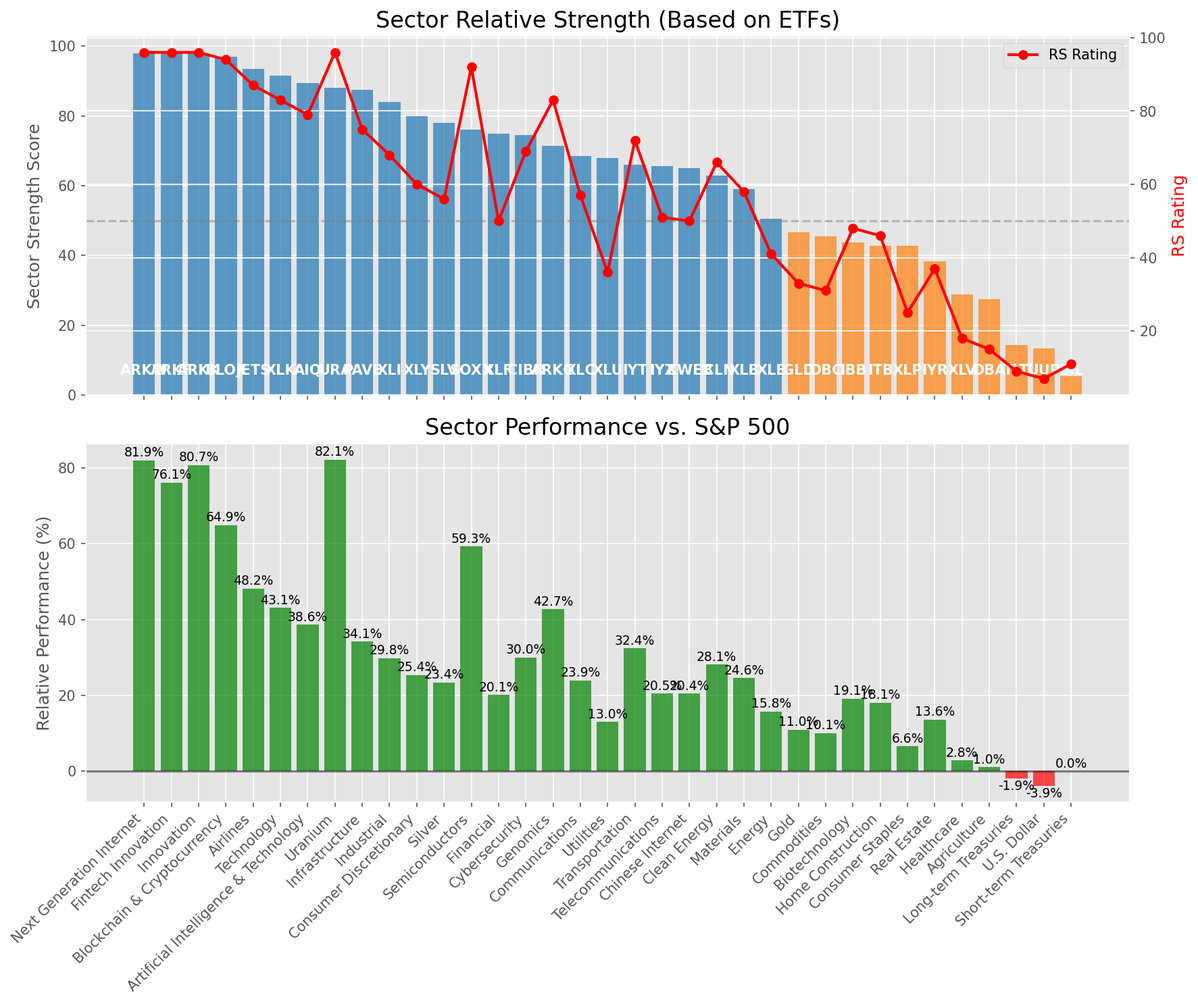
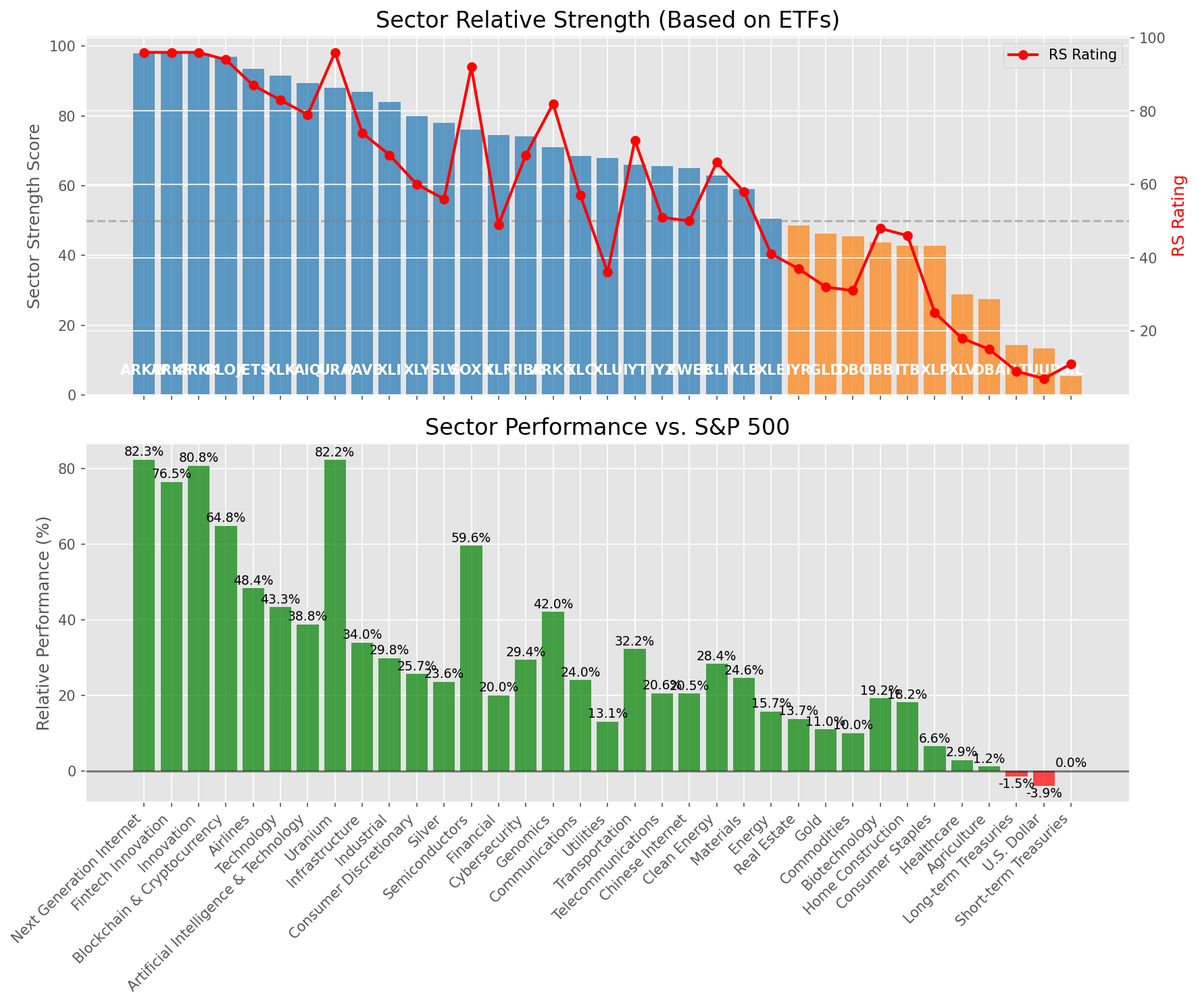
Add market report for 2025-07-10

diff --git a/oneil_relative_strength_report_2025-07-10.md b/oneil_relative_strength_report_2025-07-10.md
@@ -9,11 +9,11 @@
 | Metric | Value |
 |--------|-------|
 | **Market Valuation** | **Overvalued** |
-| **Current Ratio** | 10.30 |
+| **Current Ratio** | 10.31 |
 | **Historical Mean** | 9.44 |
 | **Standard Deviation** | 0.51 |
 | **Z-Score (StdDev from Mean)** | 1.62 |
-| **Total Market Cap** | $308.55 trillion |
+| **Total Market Cap** | $308.86 trillion |
 | **GDP** | $29.96 trillion |
 
 ## **Market Insights**
@@ -49,41 +49,41 @@ Based on William O'Neil's Relative Strength Methodology
 
 | ETF | Strength | RS Rating | Performance | Above Key MAs | Trend | Sector |
 |-----|----------|-----------|-------------|--------------|-------|--------|
-| [ARKW](https://www.tradingview.com/chart/?symbol=ARKW) | 98.0 | 96.0 | 81.95% | 10d ✓, 50d ✓, 200d ✓ | ↗ | Next Generation Internet |
-| [ARKF](https://www.tradingview.com/chart/?symbol=ARKF) | 98.0 | 96.0 | 76.14% | 10d ✓, 50d ✓, 200d ✓ | ↗ | Fintech Innovation |
-| [ARKK](https://www.tradingview.com/chart/?symbol=ARKK) | 98.0 | 96.0 | 80.70% | 10d ✓, 50d ✓, 200d ✓ | ↗ | Innovation |
-| [BLOK](https://www.tradingview.com/chart/?symbol=BLOK) | 97.0 | 94.0 | 64.87% | 10d ✓, 50d ✓, 200d ✓ | ↗ | Blockchain & Cryptocurrency |
-| [JETS](https://www.tradingview.com/chart/?symbol=JETS) | 93.5 | 87.0 | 48.19% | 10d ✓, 50d ✓, 200d ✓ | ↗ | Airlines |
-| [XLK](https://www.tradingview.com/chart/?symbol=XLK) | 91.5 | 83.0 | 43.05% | 10d ✓, 50d ✓, 200d ✓ | ↗ | Technology |
-| [AIQ](https://www.tradingview.com/chart/?symbol=AIQ) | 89.5 | 79.0 | 38.60% | 10d ✓, 50d ✓, 200d ✓ | ↗ | Artificial Intelligence & Technology |
-| [URA](https://www.tradingview.com/chart/?symbol=URA) | 88.1 | 96.0 | 82.13% | 10d ✗, 50d ✓, 200d ✓ | ↗ | Uranium |
-| [PAVE](https://www.tradingview.com/chart/?symbol=PAVE) | 87.5 | 75.0 | 34.13% | 10d ✓, 50d ✓, 200d ✓ | ↗ | Infrastructure |
-| [XLI](https://www.tradingview.com/chart/?symbol=XLI) | 84.0 | 68.0 | 29.82% | 10d ✓, 50d ✓, 200d ✓ | ↗ | Industrial |
-| [XLY](https://www.tradingview.com/chart/?symbol=XLY) | 80.0 | 60.0 | 25.38% | 10d ✓, 50d ✓, 200d ✓ | ↗ | Consumer Discretionary |
-| [SLV](https://www.tradingview.com/chart/?symbol=SLV) | 78.0 | 56.0 | 23.36% | 10d ✓, 50d ✓, 200d ✓ | ↗ | Silver |
-| [SOXX](https://www.tradingview.com/chart/?symbol=SOXX) | 76.0 | 92.0 | 59.28% | 10d ✓, 50d ✓, 200d ✓ | ↘ | Semiconductors |
-| [XLF](https://www.tradingview.com/chart/?symbol=XLF) | 75.0 | 50.0 | 20.07% | 10d ✓, 50d ✓, 200d ✓ | ↗ | Financial |
-| [CIBR](https://www.tradingview.com/chart/?symbol=CIBR) | 74.6 | 69.0 | 30.02% | 10d ✗, 50d ✓, 200d ✓ | ↗ | Cybersecurity |
-| [ARKG](https://www.tradingview.com/chart/?symbol=ARKG) | 71.5 | 83.0 | 42.72% | 10d ✓, 50d ✓, 200d ✓ | ↘ | Genomics |
-| [XLC](https://www.tradingview.com/chart/?symbol=XLC) | 68.6 | 57.0 | 23.92% | 10d ✗, 50d ✓, 200d ✓ | ↗ | Communications |
-| [XLU](https://www.tradingview.com/chart/?symbol=XLU) | 68.0 | 36.0 | 13.03% | 10d ✓, 50d ✓, 200d ✓ | ↗ | Utilities |
-| [IYT](https://www.tradingview.com/chart/?symbol=IYT) | 66.0 | 72.0 | 32.42% | 10d ✓, 50d ✓, 200d ✓ | ↘ | Transportation |
-| [IYZ](https://www.tradingview.com/chart/?symbol=IYZ) | 65.6 | 51.0 | 20.51% | 10d ✗, 50d ✓, 200d ✓ | ↗ | Telecommunications |
-| [KWEB](https://www.tradingview.com/chart/?symbol=KWEB) | 65.1 | 50.0 | 20.44% | 10d ✗, 50d ✓, 200d ✓ | ↗ | Chinese Internet |
-| [ICLN](https://www.tradingview.com/chart/?symbol=ICLN) | 63.0 | 66.0 | 28.13% | 10d ✓, 50d ✓, 200d ✓ | ↘ | Clean Energy |
-| [XLB](https://www.tradingview.com/chart/?symbol=XLB) | 59.0 | 58.0 | 24.59% | 10d ✓, 50d ✓, 200d ✓ | ↘ | Materials |
-| [XLE](https://www.tradingview.com/chart/?symbol=XLE) | 50.5 | 41.0 | 15.78% | 10d ✓, 50d ✓, 200d ✓ | ↘ | Energy |
-| [GLD](https://www.tradingview.com/chart/?symbol=GLD) | 46.7 | 33.0 | 10.98% | 10d ✗, 50d ✗, 200d ✓ | ↗ | Gold |
-| [DBC](https://www.tradingview.com/chart/?symbol=DBC) | 45.5 | 31.0 | 10.07% | 10d ✓, 50d ✓, 200d ✓ | ↘ | Commodities |
-| [IBB](https://www.tradingview.com/chart/?symbol=IBB) | 43.8 | 48.0 | 19.14% | 10d ✓, 50d ✓, 200d ✗ | ↘ | Biotechnology |
-| [ITB](https://www.tradingview.com/chart/?symbol=ITB) | 42.8 | 46.0 | 18.09% | 10d ✓, 50d ✓, 200d ✗ | ↘ | Home Construction |
+| [ARKW](https://www.tradingview.com/chart/?symbol=ARKW) | 98.0 | 96.0 | 82.32% | 10d ✓, 50d ✓, 200d ✓ | ↗ | Next Generation Internet |
+| [ARKF](https://www.tradingview.com/chart/?symbol=ARKF) | 98.0 | 96.0 | 76.46% | 10d ✓, 50d ✓, 200d ✓ | ↗ | Fintech Innovation |
+| [ARKK](https://www.tradingview.com/chart/?symbol=ARKK) | 98.0 | 96.0 | 80.76% | 10d ✓, 50d ✓, 200d ✓ | ↗ | Innovation |
+| [BLOK](https://www.tradingview.com/chart/?symbol=BLOK) | 97.0 | 94.0 | 64.85% | 10d ✓, 50d ✓, 200d ✓ | ↗ | Blockchain & Cryptocurrency |
+| [JETS](https://www.tradingview.com/chart/?symbol=JETS) | 93.5 | 87.0 | 48.36% | 10d ✓, 50d ✓, 200d ✓ | ↗ | Airlines |
+| [XLK](https://www.tradingview.com/chart/?symbol=XLK) | 91.5 | 83.0 | 43.31% | 10d ✓, 50d ✓, 200d ✓ | ↗ | Technology |
+| [AIQ](https://www.tradingview.com/chart/?symbol=AIQ) | 89.5 | 79.0 | 38.81% | 10d ✓, 50d ✓, 200d ✓ | ↗ | Artificial Intelligence & Technology |
+| [URA](https://www.tradingview.com/chart/?symbol=URA) | 88.1 | 96.0 | 82.23% | 10d ✗, 50d ✓, 200d ✓ | ↗ | Uranium |
+| [PAVE](https://www.tradingview.com/chart/?symbol=PAVE) | 87.0 | 74.0 | 33.97% | 10d ✓, 50d ✓, 200d ✓ | ↗ | Infrastructure |
+| [XLI](https://www.tradingview.com/chart/?symbol=XLI) | 84.0 | 68.0 | 29.83% | 10d ✓, 50d ✓, 200d ✓ | ↗ | Industrial |
+| [XLY](https://www.tradingview.com/chart/?symbol=XLY) | 80.0 | 60.0 | 25.69% | 10d ✓, 50d ✓, 200d ✓ | ↗ | Consumer Discretionary |
+| [SLV](https://www.tradingview.com/chart/?symbol=SLV) | 78.0 | 56.0 | 23.62% | 10d ✓, 50d ✓, 200d ✓ | ↗ | Silver |
+| [SOXX](https://www.tradingview.com/chart/?symbol=SOXX) | 76.0 | 92.0 | 59.58% | 10d ✓, 50d ✓, 200d ✓ | ↘ | Semiconductors |
+| [XLF](https://www.tradingview.com/chart/?symbol=XLF) | 74.5 | 49.0 | 20.03% | 10d ✓, 50d ✓, 200d ✓ | ↗ | Financial |
+| [CIBR](https://www.tradingview.com/chart/?symbol=CIBR) | 74.1 | 68.0 | 29.43% | 10d ✗, 50d ✓, 200d ✓ | ↗ | Cybersecurity |
+| [ARKG](https://www.tradingview.com/chart/?symbol=ARKG) | 71.0 | 82.0 | 42.04% | 10d ✓, 50d ✓, 200d ✓ | ↘ | Genomics |
+| [XLC](https://www.tradingview.com/chart/?symbol=XLC) | 68.6 | 57.0 | 24.05% | 10d ✗, 50d ✓, 200d ✓ | ↗ | Communications |
+| [XLU](https://www.tradingview.com/chart/?symbol=XLU) | 68.0 | 36.0 | 13.10% | 10d ✓, 50d ✓, 200d ✓ | ↗ | Utilities |
+| [IYT](https://www.tradingview.com/chart/?symbol=IYT) | 66.0 | 72.0 | 32.22% | 10d ✓, 50d ✓, 200d ✓ | ↘ | Transportation |
+| [IYZ](https://www.tradingview.com/chart/?symbol=IYZ) | 65.6 | 51.0 | 20.59% | 10d ✗, 50d ✓, 200d ✓ | ↗ | Telecommunications |
+| [KWEB](https://www.tradingview.com/chart/?symbol=KWEB) | 65.1 | 50.0 | 20.46% | 10d ✗, 50d ✓, 200d ✓ | ↗ | Chinese Internet |
+| [ICLN](https://www.tradingview.com/chart/?symbol=ICLN) | 63.0 | 66.0 | 28.36% | 10d ✓, 50d ✓, 200d ✓ | ↘ | Clean Energy |
+| [XLB](https://www.tradingview.com/chart/?symbol=XLB) | 59.0 | 58.0 | 24.60% | 10d ✓, 50d ✓, 200d ✓ | ↘ | Materials |
+| [XLE](https://www.tradingview.com/chart/?symbol=XLE) | 50.5 | 41.0 | 15.74% | 10d ✓, 50d ✓, 200d ✓ | ↘ | Energy |
+| [IYR](https://www.tradingview.com/chart/?symbol=IYR) | 48.5 | 37.0 | 13.74% | 10d ✓, 50d ✓, 200d ✓ | ↘ | Real Estate |
+| [GLD](https://www.tradingview.com/chart/?symbol=GLD) | 46.2 | 32.0 | 11.00% | 10d ✗, 50d ✗, 200d ✓ | ↗ | Gold |
+| [DBC](https://www.tradingview.com/chart/?symbol=DBC) | 45.5 | 31.0 | 10.00% | 10d ✓, 50d ✓, 200d ✓ | ↘ | Commodities |
+| [IBB](https://www.tradingview.com/chart/?symbol=IBB) | 43.8 | 48.0 | 19.21% | 10d ✓, 50d ✓, 200d ✗ | ↘ | Biotechnology |
+| [ITB](https://www.tradingview.com/chart/?symbol=ITB) | 42.8 | 46.0 | 18.17% | 10d ✓, 50d ✓, 200d ✗ | ↘ | Home Construction |
 | [XLP](https://www.tradingview.com/chart/?symbol=XLP) | 42.7 | 25.0 | 6.57% | 10d ✗, 50d ✗, 200d ✓ | ↗ | Consumer Staples |
-| [IYR](https://www.tradingview.com/chart/?symbol=IYR) | 38.3 | 37.0 | 13.59% | 10d ✓, 50d ✓, 200d ✗ | ↘ | Real Estate |
-| [XLV](https://www.tradingview.com/chart/?symbol=XLV) | 28.8 | 18.0 | 2.82% | 10d ✓, 50d ✓, 200d ✗ | ↘ | Healthcare |
-| [DBA](https://www.tradingview.com/chart/?symbol=DBA) | 27.5 | 15.0 | 1.04% | 10d ✗, 50d ✗, 200d ✗ | ↗ | Agriculture |
-| [TLT](https://www.tradingview.com/chart/?symbol=TLT) | 14.4 | 9.0 | -1.90% | 10d ✗, 50d ✓, 200d ✗ | ↘ | Long-term Treasuries |
-| [UUP](https://www.tradingview.com/chart/?symbol=UUP) | 13.4 | 7.0 | -3.88% | 10d ✓, 50d ✗, 200d ✗ | ↘ | U.S. Dollar |
-| [BIL](https://www.tradingview.com/chart/?symbol=BIL) | 5.5 | 11.0 | 0.03% | 10d ✗, 50d ✗, 200d ✗ | ↘ | Short-term Treasuries |
+| [XLV](https://www.tradingview.com/chart/?symbol=XLV) | 28.8 | 18.0 | 2.87% | 10d ✓, 50d ✓, 200d ✗ | ↘ | Healthcare |
+| [DBA](https://www.tradingview.com/chart/?symbol=DBA) | 27.5 | 15.0 | 1.18% | 10d ✗, 50d ✗, 200d ✗ | ↗ | Agriculture |
+| [TLT](https://www.tradingview.com/chart/?symbol=TLT) | 14.4 | 9.0 | -1.53% | 10d ✗, 50d ✓, 200d ✗ | ↘ | Long-term Treasuries |
+| [UUP](https://www.tradingview.com/chart/?symbol=UUP) | 13.4 | 7.0 | -3.95% | 10d ✓, 50d ✗, 200d ✗ | ↘ | U.S. Dollar |
+| [BIL](https://www.tradingview.com/chart/?symbol=BIL) | 5.5 | 11.0 | 0.02% | 10d ✗, 50d ✗, 200d ✗ | ↘ | Short-term Treasuries |
 
 ### **Sector ETF Performance Interpretation**
 
@@ -100,153 +100,150 @@ This table shows the relative strength metrics for different market sectors base
 
 The current market leadership is coming from the following sectors: **Next Generation Internet, Fintech Innovation, Innovation**.
 
-The **Next Generation Internet** sector (represented by **ARKW**) is showing particularly strong relative strength with an RS rating of 96.0 and performance of 81.95% vs. the S&P 500. This sector is trading above its 10-day, 50-day, 200-day moving average(s). Investors should consider focusing on high RS stocks within these leading sectors for potential outperformance.
+The **Next Generation Internet** sector (represented by **ARKW**) is showing particularly strong relative strength with an RS rating of 96.0 and performance of 82.32% vs. the S&P 500. This sector is trading above its 10-day, 50-day, 200-day moving average(s). Investors should consider focusing on high RS stocks within these leading sectors for potential outperformance.
 
 ---
 
 ## **Buy Recommendations**
 
-The following 36 stocks show exceptional relative strength:
+The following 34 stocks show exceptional relative strength:
 
 | RS Rating | Buy Score | Current Price | Chart | Name | Ticker |
 |-----------|-----------|---------------|-------|------|--------|
-| 100 | 100 | $193.78 | [Chart](https://www.tradingview.com/chart/?symbol=LEU) | Centrus Energy Corp. | LEU |
-| 100 | 100 | $97.14 | [Chart](https://www.tradingview.com/chart/?symbol=HOOD) | Robinhood Markets, Inc. Class A Common Stock | HOOD |
-| 99 | 100 | $44.15 | [Chart](https://www.tradingview.com/chart/?symbol=MP) | MP Materials Corp. | MP |
-| 99 | 100 | $104.70 | [Chart](https://www.tradingview.com/chart/?symbol=RBLX) | Roblox Corporation | RBLX |
+| 100 | 100 | $194.79 | [Chart](https://www.tradingview.com/chart/?symbol=LEU) | Centrus Energy Corp. | LEU |
+| 100 | 100 | $97.97 | [Chart](https://www.tradingview.com/chart/?symbol=HOOD) | Robinhood Markets, Inc. Class A Common Stock | HOOD |
 | 99 | 100 | $145.69 | [Chart](https://www.tradingview.com/chart/?symbol=LMB) | Limbach Holdings, Inc Common Stock | LMB |
-| 98 | 100 | $104.91 | [Chart](https://www.tradingview.com/chart/?symbol=VRNA) | Verona Pharma plc | VRNA |
-| 98 | 100 | $143.40 | [Chart](https://www.tradingview.com/chart/?symbol=FUTU) | Futu Holdings Limited American Depositary Shares | FUTU |
-| 98 | 100 | $349.00 | [Chart](https://www.tradingview.com/chart/?symbol=CVNA) | Carvana Co. | CVNA |
-| 97 | 100 | $141.99 | [Chart](https://www.tradingview.com/chart/?symbol=PLTR) | Palantir Technologies Inc. Class A Common Stock | PLTR |
-| 97 | 100 | $541.60 | [Chart](https://www.tradingview.com/chart/?symbol=GEV) | GE Vernova Inc. | GEV |
-| 96 | 100 | $51.41 | [Chart](https://www.tradingview.com/chart/?symbol=ARKF) | ARK Fintech Innovation ETF | ARKF |
-| 96 | 100 | $43.92 | [Chart](https://www.tradingview.com/chart/?symbol=FARO) | Faro Technologies Inc | FARO |
+| 99 | 100 | $44.38 | [Chart](https://www.tradingview.com/chart/?symbol=MP) | MP Materials Corp. | MP |
+| 98 | 100 | $347.89 | [Chart](https://www.tradingview.com/chart/?symbol=CVNA) | Carvana Co. | CVNA |
+| 98 | 100 | $104.84 | [Chart](https://www.tradingview.com/chart/?symbol=VRNA) | Verona Pharma plc | VRNA |
+| 98 | 100 | $143.66 | [Chart](https://www.tradingview.com/chart/?symbol=FUTU) | Futu Holdings Limited American Depositary Shares | FUTU |
+| 97 | 100 | $539.89 | [Chart](https://www.tradingview.com/chart/?symbol=GEV) | GE Vernova Inc. | GEV |
+| 97 | 100 | $142.23 | [Chart](https://www.tradingview.com/chart/?symbol=PLTR) | Palantir Technologies Inc. Class A Common Stock | PLTR |
+| 96 | 100 | $51.51 | [Chart](https://www.tradingview.com/chart/?symbol=ARKF) | ARK Fintech Innovation ETF | ARKF |
+| 96 | 100 | $43.95 | [Chart](https://www.tradingview.com/chart/?symbol=FARO) | Faro Technologies Inc | FARO |
 | 95 | 100 | $21.38 | [Chart](https://www.tradingview.com/chart/?symbol=MAG) | MAG Silver Corp. | MAG |
-| 94 | 100 | $73.19 | [Chart](https://www.tradingview.com/chart/?symbol=URBN) | Urban Outfitters Inc | URBN |
-| 94 | 100 | $88.69 | [Chart](https://www.tradingview.com/chart/?symbol=RBRK) | Rubrik, Inc. | RBRK |
-| 93 | 100 | $34.72 | [Chart](https://www.tradingview.com/chart/?symbol=APG) | APi Group Corporation | APG |
-| 93 | 100 | $52.55 | [Chart](https://www.tradingview.com/chart/?symbol=INOD) | Innodata Inc. | INOD |
-| 92 | 100 | $97.84 | [Chart](https://www.tradingview.com/chart/?symbol=TPR) | Tapestry, Inc. Common Stock | TPR |
-| 92 | 100 | $58.92 | [Chart](https://www.tradingview.com/chart/?symbol=IBKR) | Interactive Brokers Group, Inc. Class A Common Stock | IBKR |
-| 92 | 100 | $46.20 | [Chart](https://www.tradingview.com/chart/?symbol=KTOS) | Kratos Defense & Security Solutions, Inc. | KTOS |
-| 90 | 100 | $46.11 | [Chart](https://www.tradingview.com/chart/?symbol=BBIO) | BridgeBio Pharma, Inc. Common Stock | BBIO |
-| 89 | 100 | $29.95 | [Chart](https://www.tradingview.com/chart/?symbol=DB) | Deutsche Bank Aktiengesellschaft | DB |
-| 87 | 100 | $18.77 | [Chart](https://www.tradingview.com/chart/?symbol=BCS) | Barclays PLC | BCS |
-| 90 | 99 | $89.48 | [Chart](https://www.tradingview.com/chart/?symbol=RYTM) | Rhythm Pharmaceuticals, Inc. Common Stock | RYTM |
-| 88 | 99 | $35.96 | [Chart](https://www.tradingview.com/chart/?symbol=ATAT) | Atour Lifestyle Holdings Limited American Depositary Shares | ATAT |
-| 88 | 98 | $105.53 | [Chart](https://www.tradingview.com/chart/?symbol=SANM) | Sanmina  Corp | SANM |
-| 87 | 98 | $250.24 | [Chart](https://www.tradingview.com/chart/?symbol=GE) | GE Aerospace | GE |
-| 87 | 98 | $44.41 | [Chart](https://www.tradingview.com/chart/?symbol=TOST) | Toast, Inc. | TOST |
-| 86 | 98 | $46.25 | [Chart](https://www.tradingview.com/chart/?symbol=DRS) | Leonardo DRS, Inc. Common Stock | DRS |
-| 87 | 97 | $64.45 | [Chart](https://www.tradingview.com/chart/?symbol=IBIT) | iShares Bitcoin Trust ETF | IBIT |
-| 85 | 96 | $25.54 | [Chart](https://www.tradingview.com/chart/?symbol=KAR) | OPENLANE, Inc | KAR |
-| 85 | 95 | $29.98 | [Chart](https://www.tradingview.com/chart/?symbol=NTGR) | NETGEAR, Inc. | NTGR |
-| 81 | 95 | $29.14 | [Chart](https://www.tradingview.com/chart/?symbol=SRAD) | Sportradar Group AG Class A Ordinary Shares | SRAD |
+| 94 | 100 | $73.20 | [Chart](https://www.tradingview.com/chart/?symbol=URBN) | Urban Outfitters Inc | URBN |
+| 93 | 100 | $34.73 | [Chart](https://www.tradingview.com/chart/?symbol=APG) | APi Group Corporation | APG |
+| 93 | 100 | $52.62 | [Chart](https://www.tradingview.com/chart/?symbol=INOD) | Innodata Inc. | INOD |
+| 92 | 100 | $58.83 | [Chart](https://www.tradingview.com/chart/?symbol=IBKR) | Interactive Brokers Group, Inc. Class A Common Stock | IBKR |
+| 92 | 100 | $97.67 | [Chart](https://www.tradingview.com/chart/?symbol=TPR) | Tapestry, Inc. Common Stock | TPR |
+| 91 | 100 | $45.88 | [Chart](https://www.tradingview.com/chart/?symbol=KTOS) | Kratos Defense & Security Solutions, Inc. | KTOS |
+| 90 | 100 | $46.33 | [Chart](https://www.tradingview.com/chart/?symbol=BBIO) | BridgeBio Pharma, Inc. Common Stock | BBIO |
+| 89 | 100 | $29.99 | [Chart](https://www.tradingview.com/chart/?symbol=DB) | Deutsche Bank Aktiengesellschaft | DB |
+| 87 | 100 | $18.75 | [Chart](https://www.tradingview.com/chart/?symbol=BCS) | Barclays PLC | BCS |
+| 90 | 99 | $88.65 | [Chart](https://www.tradingview.com/chart/?symbol=RYTM) | Rhythm Pharmaceuticals, Inc. Common Stock | RYTM |
+| 88 | 99 | $35.82 | [Chart](https://www.tradingview.com/chart/?symbol=ATAT) | Atour Lifestyle Holdings Limited American Depositary Shares | ATAT |
+| 88 | 98 | $105.19 | [Chart](https://www.tradingview.com/chart/?symbol=SANM) | Sanmina  Corp | SANM |
+| 87 | 98 | $44.52 | [Chart](https://www.tradingview.com/chart/?symbol=TOST) | Toast, Inc. | TOST |
+| 87 | 98 | $251.06 | [Chart](https://www.tradingview.com/chart/?symbol=GE) | GE Aerospace | GE |
+| 87 | 98 | $50.36 | [Chart](https://www.tradingview.com/chart/?symbol=BTC) | Grayscale Bitcoin Mini Trust ETF | BTC |
+| 86 | 98 | $46.34 | [Chart](https://www.tradingview.com/chart/?symbol=DRS) | Leonardo DRS, Inc. Common Stock | DRS |
+| 87 | 97 | $64.62 | [Chart](https://www.tradingview.com/chart/?symbol=IBIT) | iShares Bitcoin Trust ETF | IBIT |
+| 87 | 97 | $29.93 | [Chart](https://www.tradingview.com/chart/?symbol=NTGR) | NETGEAR, Inc. | NTGR |
+| 85 | 96 | $25.53 | [Chart](https://www.tradingview.com/chart/?symbol=KAR) | OPENLANE, Inc | KAR |
+| 81 | 95 | $29.20 | [Chart](https://www.tradingview.com/chart/?symbol=SRAD) | Sportradar Group AG Class A Ordinary Shares | SRAD |
 | 80 | 93 | $29.29 | [Chart](https://www.tradingview.com/chart/?symbol=CAE) | CAE INC | CAE |
-| 83 | 92 | $48.66 | [Chart](https://www.tradingview.com/chart/?symbol=SIL) | Global X Silver Miners ETF (NEW) | SIL |
-| 80 | 90 | $46.10 | [Chart](https://www.tradingview.com/chart/?symbol=AU) | AngloGold Ashanti plc | AU |
+| 83 | 92 | $48.64 | [Chart](https://www.tradingview.com/chart/?symbol=SIL) | Global X Silver Miners ETF (NEW) | SIL |
 
 ---
 
 
 ## **Sell Recommendations**
 
-The following 91 stocks show deteriorating relative strength:
+The following 90 stocks show deteriorating relative strength:
 
 | RS Rating | Sell Score | Current Price | Chart | Name | Ticker |
 |-----------|------------|---------------|-------|------|--------|
-| 1 | 100 | $24.46 | [Chart](https://www.tradingview.com/chart/?symbol=ZSL) | ProShares UltraShort Silver | ZSL |
-| 1 | 100 | $25.57 | [Chart](https://www.tradingview.com/chart/?symbol=TECS) | Direxion Daily Technology Bear 3x Shares | TECS |
-| 1 | 100 | $16.28 | [Chart](https://www.tradingview.com/chart/?symbol=SDS) | ProShares UltraShort S&P500 | SDS |
-| 1 | 100 | $18.65 | [Chart](https://www.tradingview.com/chart/?symbol=BITI) | ProShares Short Bitcoin ETF | BITI |
-| 1 | 100 | $39.73 | [Chart](https://www.tradingview.com/chart/?symbol=SDOW) | ProShares UltraPro Short Dow 30 | SDOW |
-| 1 | 100 | $25.07 | [Chart](https://www.tradingview.com/chart/?symbol=QID) | ProShares UltraShort QQQ | QID |
-| 2 | 100 | $20.90 | [Chart](https://www.tradingview.com/chart/?symbol=ERY) | Direxion Daily Energy Bear 2X Shares | ERY |
+| 1 | 100 | $24.98 | [Chart](https://www.tradingview.com/chart/?symbol=QID) | ProShares UltraShort QQQ | QID |
+| 1 | 100 | $16.23 | [Chart](https://www.tradingview.com/chart/?symbol=SDS) | ProShares UltraShort S&P500 | SDS |
+| 1 | 100 | $24.38 | [Chart](https://www.tradingview.com/chart/?symbol=ZSL) | ProShares UltraShort Silver | ZSL |
+| 1 | 100 | $39.68 | [Chart](https://www.tradingview.com/chart/?symbol=SDOW) | ProShares UltraPro Short Dow 30 | SDOW |
+| 1 | 100 | $18.60 | [Chart](https://www.tradingview.com/chart/?symbol=BITI) | ProShares Short Bitcoin ETF | BITI |
+| 1 | 100 | $25.43 | [Chart](https://www.tradingview.com/chart/?symbol=TECS) | Direxion Daily Technology Bear 3x Shares | TECS |
+| 2 | 100 | $20.94 | [Chart](https://www.tradingview.com/chart/?symbol=ERY) | Direxion Daily Energy Bear 2X Shares | ERY |
+| 2 | 100 | $34.28 | [Chart](https://www.tradingview.com/chart/?symbol=SARK) | Investment Managers Series Trust II Tradr 1X Short Innovation Daily ETF | SARK |
+| 2 | 100 | $23.55 | [Chart](https://www.tradingview.com/chart/?symbol=DXD) | ProShares UltraShort Dow 30 | DXD |
 | 2 | 100 | $10.25 | [Chart](https://www.tradingview.com/chart/?symbol=SNDX) | Syndax Pharmaceuticals, Inc. | SNDX |
-| 2 | 100 | $33.52 | [Chart](https://www.tradingview.com/chart/?symbol=PSQ) | ProShares Short QQQ | PSQ |
-| 2 | 100 | $23.57 | [Chart](https://www.tradingview.com/chart/?symbol=DXD) | ProShares UltraShort Dow 30 | DXD |
-| 2 | 100 | $232.09 | [Chart](https://www.tradingview.com/chart/?symbol=MOH) | Molina Healthcare, Inc. | MOH |
-| 2 | 100 | $39.24 | [Chart](https://www.tradingview.com/chart/?symbol=SH) | ProShares Short S&P500 | SH |
-| 2 | 100 | $34.67 | [Chart](https://www.tradingview.com/chart/?symbol=SARK) | Investment Managers Series Trust II Tradr 1X Short Innovation Daily ETF | SARK |
+| 2 | 100 | $229.60 | [Chart](https://www.tradingview.com/chart/?symbol=MOH) | Molina Healthcare, Inc. | MOH |
+| 2 | 100 | $39.20 | [Chart](https://www.tradingview.com/chart/?symbol=SH) | ProShares Short S&P500 | SH |
+| 2 | 100 | $33.46 | [Chart](https://www.tradingview.com/chart/?symbol=PSQ) | ProShares Short QQQ | PSQ |
+| 3 | 100 | $24.21 | [Chart](https://www.tradingview.com/chart/?symbol=CRTO) | Criteo S.A. | CRTO |
+| 3 | 100 | $10.76 | [Chart](https://www.tradingview.com/chart/?symbol=EMBC) | Embecta Corp. Common Stock | EMBC |
+| 3 | 100 | $233.90 | [Chart](https://www.tradingview.com/chart/?symbol=HUM) | Humana Inc. | HUM |
 | 3 | 100 | $25.14 | [Chart](https://www.tradingview.com/chart/?symbol=DOG) | ProShares Short Dow30 | DOG |
-| 3 | 100 | $234.68 | [Chart](https://www.tradingview.com/chart/?symbol=HUM) | Humana Inc. | HUM |
 | 3 | 100 | $12.55 | [Chart](https://www.tradingview.com/chart/?symbol=CCRN) | Cross Country Healthcare Inc | CCRN |
-| 3 | 100 | $60.16 | [Chart](https://www.tradingview.com/chart/?symbol=STC) | Stewart Information Services Corporation | STC |
-| 3 | 100 | $24.78 | [Chart](https://www.tradingview.com/chart/?symbol=CRTO) | Criteo S.A. | CRTO |
-| 4 | 100 | $51.22 | [Chart](https://www.tradingview.com/chart/?symbol=ASGN) | ASGN Incorporated | ASGN |
+| 3 | 100 | $60.09 | [Chart](https://www.tradingview.com/chart/?symbol=STC) | Stewart Information Services Corporation | STC |
+| 4 | 100 | $17.11 | [Chart](https://www.tradingview.com/chart/?symbol=HP) | Helmerich & Payne, Inc. | HP |
+| 4 | 100 | $43.47 | [Chart](https://www.tradingview.com/chart/?symbol=LINE) | Lineage, Inc. Common Stock | LINE |
+| 4 | 100 | $10.47 | [Chart](https://www.tradingview.com/chart/?symbol=LBTYK) | Liberty Global Ltd. Class C Common Shares | LBTYK |
 | 4 | 100 | $65.01 | [Chart](https://www.tradingview.com/chart/?symbol=ZROZ) | PIMCO 25+ Year Zero Coupon U.S. Treasury Index Exchange-Traded Fund | ZROZ |
-| 4 | 100 | $10.44 | [Chart](https://www.tradingview.com/chart/?symbol=LBTYK) | Liberty Global Ltd. Class C Common Shares | LBTYK |
-| 4 | 100 | $55.80 | [Chart](https://www.tradingview.com/chart/?symbol=AMWD) | American Woodmark Corp | AMWD |
-| 4 | 100 | $43.44 | [Chart](https://www.tradingview.com/chart/?symbol=LINE) | Lineage, Inc. Common Stock | LINE |
-| 4 | 100 | $37.71 | [Chart](https://www.tradingview.com/chart/?symbol=IBTA) | Ibotta, Inc. | IBTA |
-| 5 | 100 | $10.13 | [Chart](https://www.tradingview.com/chart/?symbol=LBTYA) | Liberty Global Ltd. Class A Common Shares | LBTYA |
-| 5 | 100 | $14.70 | [Chart](https://www.tradingview.com/chart/?symbol=SEM) | SELECT MEDICAL HOLDINGS CORP | SEM |
-| 6 | 100 | $14.59 | [Chart](https://www.tradingview.com/chart/?symbol=VRE) | Veris Residential, Inc. | VRE |
-| 6 | 100 | $16.45 | [Chart](https://www.tradingview.com/chart/?symbol=COLD) | Americold Realty Trust, Inc. | COLD |
-| 6 | 100 | $17.34 | [Chart](https://www.tradingview.com/chart/?symbol=NOMD) | Nomad Foods Limited | NOMD |
-| 6 | 100 | $10.35 | [Chart](https://www.tradingview.com/chart/?symbol=NMZ) | Nuveen Municipal High Income Opportunity Fund | NMZ |
-| 8 | 100 | $71.64 | [Chart](https://www.tradingview.com/chart/?symbol=TNET) | TRINET GROUP, INC. | TNET |
-| 8 | 100 | $51.23 | [Chart](https://www.tradingview.com/chart/?symbol=LW) | Lamb Weston Holdings, Inc. | LW |
-| 9 | 100 | $16.12 | [Chart](https://www.tradingview.com/chart/?symbol=TNDM) | Tandem Diabetes Care, Inc. | TNDM |
+| 4 | 100 | $37.97 | [Chart](https://www.tradingview.com/chart/?symbol=IBTA) | Ibotta, Inc. | IBTA |
+| 5 | 100 | $430.32 | [Chart](https://www.tradingview.com/chart/?symbol=MUSA) | MURPHY USA INC. | MUSA |
+| 5 | 100 | $14.79 | [Chart](https://www.tradingview.com/chart/?symbol=SEM) | SELECT MEDICAL HOLDINGS CORP | SEM |
+| 5 | 100 | $10.18 | [Chart](https://www.tradingview.com/chart/?symbol=LBTYA) | Liberty Global Ltd. Class A Common Shares | LBTYA |
+| 5 | 100 | $17.37 | [Chart](https://www.tradingview.com/chart/?symbol=NOMD) | Nomad Foods Limited | NOMD |
+| 6 | 100 | $16.52 | [Chart](https://www.tradingview.com/chart/?symbol=COLD) | Americold Realty Trust, Inc. | COLD |
+| 6 | 100 | $10.37 | [Chart](https://www.tradingview.com/chart/?symbol=NMZ) | Nuveen Municipal High Income Opportunity Fund | NMZ |
+| 9 | 100 | $16.17 | [Chart](https://www.tradingview.com/chart/?symbol=TNDM) | Tandem Diabetes Care, Inc. | TNDM |
+| 9 | 100 | $72.14 | [Chart](https://www.tradingview.com/chart/?symbol=TNET) | TRINET GROUP, INC. | TNET |
+| 9 | 100 | $51.58 | [Chart](https://www.tradingview.com/chart/?symbol=LW) | Lamb Weston Holdings, Inc. | LW |
+| 10 | 100 | $22.85 | [Chart](https://www.tradingview.com/chart/?symbol=IBTG) | iShares iBonds Dec 2026 Term Treasury ETF | IBTG |
 | 10 | 100 | $29.15 | [Chart](https://www.tradingview.com/chart/?symbol=SPTS) | SPDR Portfolio Short Term Treasury ETF | SPTS |
-| 10 | 100 | $132.71 | [Chart](https://www.tradingview.com/chart/?symbol=KMB) | Kimberly-Clark Corp. | KMB |
-| 11 | 100 | $22.85 | [Chart](https://www.tradingview.com/chart/?symbol=IBTG) | iShares iBonds Dec 2026 Term Treasury ETF | IBTG |
-| 12 | 100 | $41.47 | [Chart](https://www.tradingview.com/chart/?symbol=POR) | Portland General Electric Company | POR |
-| 7 | 99 | $13.06 | [Chart](https://www.tradingview.com/chart/?symbol=GO) | Grocery Outlet Holding Corp. Common Stock | GO |
-| 11 | 99 | $77.08 | [Chart](https://www.tradingview.com/chart/?symbol=CNS) | Cohen & Steers Inc. | CNS |
+| 10 | 100 | $132.77 | [Chart](https://www.tradingview.com/chart/?symbol=KMB) | Kimberly-Clark Corp. | KMB |
+| 6 | 99 | $53.12 | [Chart](https://www.tradingview.com/chart/?symbol=SLVM) | Sylvamo Corporation | SLVM |
+| 7 | 99 | $13.04 | [Chart](https://www.tradingview.com/chart/?symbol=GO) | Grocery Outlet Holding Corp. Common Stock | GO |
+| 12 | 99 | $14.79 | [Chart](https://www.tradingview.com/chart/?symbol=VRE) | Veris Residential, Inc. | VRE |
 | 4 | 98 | $25.28 | [Chart](https://www.tradingview.com/chart/?symbol=DRV) | Direxion Daily Real Estate Bear 3X Shares | DRV |
-| 7 | 98 | $21.69 | [Chart](https://www.tradingview.com/chart/?symbol=TUA) | Simplify Short Term Treasury Futures Strategy ETF | TUA |
 | 8 | 98 | $46.27 | [Chart](https://www.tradingview.com/chart/?symbol=CWT) | California Water Service | CWT |
-| 15 | 97 | $47.34 | [Chart](https://www.tradingview.com/chart/?symbol=KBR) | KBR, Inc. | KBR |
-| 7 | 96 | $27.78 | [Chart](https://www.tradingview.com/chart/?symbol=VCYT) | Veracyte, Inc. | VCYT |
-| 9 | 95 | $49.20 | [Chart](https://www.tradingview.com/chart/?symbol=SNY) | Sanofi American Depositary Shares (Each representing one-half of one ordinary share) | SNY |
-| 11 | 94 | $82.44 | [Chart](https://www.tradingview.com/chart/?symbol=SHY) | iShares 1-3 Year Treasury Bond ETF | SHY |
-| 12 | 94 | $141.48 | [Chart](https://www.tradingview.com/chart/?symbol=INSP) | Inspire Medical Systems, Inc. | INSP |
-| 21 | 93 | $463.64 | [Chart](https://www.tradingview.com/chart/?symbol=LMT) | Lockheed Martin Corp. | LMT |
-| 8 | 92 | $70.87 | [Chart](https://www.tradingview.com/chart/?symbol=RLI) | RLI Corp. | RLI |
-| 11 | 92 | $110.18 | [Chart](https://www.tradingview.com/chart/?symbol=SHV) | iShares Short Treasury Bond ETF | SHV |
-| 20 | 92 | $105.62 | [Chart](https://www.tradingview.com/chart/?symbol=DECK) | Deckers Outdoor Corp | DECK |
-| 22 | 92 | $87.08 | [Chart](https://www.tradingview.com/chart/?symbol=SIGI) | Selective Insurance Group | SIGI |
+| 7 | 97 | $21.70 | [Chart](https://www.tradingview.com/chart/?symbol=TUA) | Simplify Short Term Treasury Futures Strategy ETF | TUA |
+| 6 | 96 | $27.36 | [Chart](https://www.tradingview.com/chart/?symbol=VCYT) | Veracyte, Inc. | VCYT |
+| 9 | 96 | $139.00 | [Chart](https://www.tradingview.com/chart/?symbol=INSP) | Inspire Medical Systems, Inc. | INSP |
+| 15 | 96 | $47.48 | [Chart](https://www.tradingview.com/chart/?symbol=KBR) | KBR, Inc. | KBR |
+| 9 | 95 | $49.26 | [Chart](https://www.tradingview.com/chart/?symbol=SNY) | Sanofi American Depositary Shares (Each representing one-half of one ordinary share) | SNY |
+| 10 | 95 | $82.45 | [Chart](https://www.tradingview.com/chart/?symbol=SHY) | iShares 1-3 Year Treasury Bond ETF | SHY |
+| 19 | 93 | $105.42 | [Chart](https://www.tradingview.com/chart/?symbol=DECK) | Deckers Outdoor Corp | DECK |
+| 21 | 93 | $87.10 | [Chart](https://www.tradingview.com/chart/?symbol=SIGI) | Selective Insurance Group | SIGI |
+| 11 | 92 | $110.17 | [Chart](https://www.tradingview.com/chart/?symbol=SHV) | iShares Short Treasury Bond ETF | SHV |
+| 22 | 92 | $465.64 | [Chart](https://www.tradingview.com/chart/?symbol=LMT) | Lockheed Martin Corp. | LMT |
 | 10 | 90 | $22.38 | [Chart](https://www.tradingview.com/chart/?symbol=IBTH) | iShares iBonds Dec 2027 Term Treasury ETF | IBTH |
 | 12 | 90 | $59.90 | [Chart](https://www.tradingview.com/chart/?symbol=FTSM) | First Trust Enhanced Short Maturity ETF | FTSM |
-| 15 | 90 | $13.23 | [Chart](https://www.tradingview.com/chart/?symbol=BSM) | Black Stone Minerals, L.P. | BSM |
+| 15 | 90 | $13.29 | [Chart](https://www.tradingview.com/chart/?symbol=BSM) | Black Stone Minerals, L.P. | BSM |
+| 16 | 90 | $24.61 | [Chart](https://www.tradingview.com/chart/?symbol=HYMB) | SPDR Nuveen ICE High Yield Municipal Bond ETF | HYMB |
 | 17 | 90 | $25.39 | [Chart](https://www.tradingview.com/chart/?symbol=TBBB) | BBB Foods Inc. | TBBB |
-| 21 | 90 | $54.10 | [Chart](https://www.tradingview.com/chart/?symbol=CNMD) | CONMED Corporation | CNMD |
-| 25 | 90 | $32.51 | [Chart](https://www.tradingview.com/chart/?symbol=INVH) | Invitation Homes Inc. Common Stock | INVH |
-| 17 | 89 | $24.59 | [Chart](https://www.tradingview.com/chart/?symbol=HYMB) | SPDR Nuveen ICE High Yield Municipal Bond ETF | HYMB |
-| 20 | 89 | $34.74 | [Chart](https://www.tradingview.com/chart/?symbol=PECO) | Phillips Edison & Company, Inc. Common Stock | PECO |
-| 24 | 89 | $61.55 | [Chart](https://www.tradingview.com/chart/?symbol=UL) | Unilever plc | UL |
-| 12 | 88 | $100.28 | [Chart](https://www.tradingview.com/chart/?symbol=MINT) | PIMCO Enhanced Short Maturity Active Exchange-Traded Fund | MINT |
-| 17 | 88 | $26.16 | [Chart](https://www.tradingview.com/chart/?symbol=PNTG) | The Pennant Group, Inc. Common Stock | PNTG |
-| 20 | 87 | $19.98 | [Chart](https://www.tradingview.com/chart/?symbol=SPT) | Sprout Social, Inc Class A Common Stock | SPT |
-| 20 | 87 | $105.78 | [Chart](https://www.tradingview.com/chart/?symbol=DEO) | Diageo plc | DEO |
-| 24 | 87 | $14.13 | [Chart](https://www.tradingview.com/chart/?symbol=DOLE) | Dole plc | DOLE |
-| 19 | 86 | $36.45 | [Chart](https://www.tradingview.com/chart/?symbol=PBA) | PEMBINA PIPELINE CORPORATION | PBA |
-| 20 | 86 | $165.26 | [Chart](https://www.tradingview.com/chart/?symbol=HSY) | The Hershey Company | HSY |
-| 18 | 85 | $26.80 | [Chart](https://www.tradingview.com/chart/?symbol=FCPT) | Four Corners Property Trust, Inc. | FCPT |
-| 19 | 85 | $77.65 | [Chart](https://www.tradingview.com/chart/?symbol=AWR) | American States Water Company | AWR |
-| 19 | 83 | $20.53 | [Chart](https://www.tradingview.com/chart/?symbol=CON) | Concentra Group Holdings Parent, Inc. | CON |
-| 21 | 83 | $71.87 | [Chart](https://www.tradingview.com/chart/?symbol=NHI) | National Health Investors | NHI |
-| 29 | 83 | $15.99 | [Chart](https://www.tradingview.com/chart/?symbol=BNL) | Broadstone Net Lease, Inc. | BNL |
-| 18 | 82 | $36.03 | [Chart](https://www.tradingview.com/chart/?symbol=VERX) | Vertex, Inc. Class A Common Stock | VERX |
-| 25 | 82 | $40.64 | [Chart](https://www.tradingview.com/chart/?symbol=UDR) | UDR, Inc. | UDR |
-| 30 | 80 | $22.40 | [Chart](https://www.tradingview.com/chart/?symbol=SGRY) | Surgery Partners, Inc. Common Stock | SGRY |
-| 28 | 79 | $101.04 | [Chart](https://www.tradingview.com/chart/?symbol=FMX) | FOMENTO ECONOMICO MEXICANO, S.A.B. DE C.V. | FMX |
+| 17 | 90 | $339.77 | [Chart](https://www.tradingview.com/chart/?symbol=EG) | Everest Group, Ltd. | EG |
+| 21 | 90 | $54.17 | [Chart](https://www.tradingview.com/chart/?symbol=CNMD) | CONMED Corporation | CNMD |
+| 24 | 90 | $32.48 | [Chart](https://www.tradingview.com/chart/?symbol=INVH) | Invitation Homes Inc. Common Stock | INVH |
+| 16 | 89 | $26.16 | [Chart](https://www.tradingview.com/chart/?symbol=PNTG) | The Pennant Group, Inc. Common Stock | PNTG |
+| 20 | 89 | $34.78 | [Chart](https://www.tradingview.com/chart/?symbol=PECO) | Phillips Edison & Company, Inc. Common Stock | PECO |
+| 12 | 88 | $100.29 | [Chart](https://www.tradingview.com/chart/?symbol=MINT) | PIMCO Enhanced Short Maturity Active Exchange-Traded Fund | MINT |
+| 25 | 88 | $61.62 | [Chart](https://www.tradingview.com/chart/?symbol=UL) | Unilever plc | UL |
+| 20 | 87 | $19.99 | [Chart](https://www.tradingview.com/chart/?symbol=SPT) | Sprout Social, Inc Class A Common Stock | SPT |
+| 20 | 87 | $105.55 | [Chart](https://www.tradingview.com/chart/?symbol=DEO) | Diageo plc | DEO |
+| 24 | 87 | $14.11 | [Chart](https://www.tradingview.com/chart/?symbol=DOLE) | Dole plc | DOLE |
+| 18 | 86 | $77.65 | [Chart](https://www.tradingview.com/chart/?symbol=AWR) | American States Water Company | AWR |
+| 19 | 86 | $36.60 | [Chart](https://www.tradingview.com/chart/?symbol=PBA) | PEMBINA PIPELINE CORPORATION | PBA |
+| 20 | 86 | $165.09 | [Chart](https://www.tradingview.com/chart/?symbol=HSY) | The Hershey Company | HSY |
+| 18 | 84 | $26.79 | [Chart](https://www.tradingview.com/chart/?symbol=FCPT) | Four Corners Property Trust, Inc. | FCPT |
+| 20 | 82 | $20.65 | [Chart](https://www.tradingview.com/chart/?symbol=CON) | Concentra Group Holdings Parent, Inc. | CON |
+| 21 | 82 | $71.85 | [Chart](https://www.tradingview.com/chart/?symbol=NHI) | National Health Investors | NHI |
+| 22 | 82 | $237.39 | [Chart](https://www.tradingview.com/chart/?symbol=RNR) | RenaissanceRe Holdings Ltd. | RNR |
+| 25 | 82 | $40.69 | [Chart](https://www.tradingview.com/chart/?symbol=UDR) | UDR, Inc. | UDR |
+| 29 | 82 | $16.03 | [Chart](https://www.tradingview.com/chart/?symbol=BNL) | Broadstone Net Lease, Inc. | BNL |
+| 29 | 79 | $566.97 | [Chart](https://www.tradingview.com/chart/?symbol=TYL) | Tyler Technologies, Inc. | TYL |
 | 34 | 79 | $18.20 | [Chart](https://www.tradingview.com/chart/?symbol=S) | SentinelOne, Inc. | S |
-| 27 | 78 | $19.14 | [Chart](https://www.tradingview.com/chart/?symbol=MSDL) | Morgan Stanley Direct Lending Fund | MSDL |
-| 30 | 78 | $569.75 | [Chart](https://www.tradingview.com/chart/?symbol=TYL) | Tyler Technologies, Inc. | TYL |
-| 26 | 76 | $16.36 | [Chart](https://www.tradingview.com/chart/?symbol=PRO) | Pros Holdings, Inc. | PRO |
-| 30 | 76 | $35.84 | [Chart](https://www.tradingview.com/chart/?symbol=AMH) | AMERICAN HOMES 4 RENT | AMH |
-| 31 | 76 | $56.44 | [Chart](https://www.tradingview.com/chart/?symbol=USRT) | iShares Core U.S. REIT ETF | USRT |
-| 26 | 75 | $114.21 | [Chart](https://www.tradingview.com/chart/?symbol=CPT) | Camden Property Trust | CPT |
-| 29 | 75 | $67.39 | [Chart](https://www.tradingview.com/chart/?symbol=EQR) | Equity Residential | EQR |
-| 29 | 75 | $57.58 | [Chart](https://www.tradingview.com/chart/?symbol=ESNT) | Essent Group LTD | ESNT |
-| 32 | 74 | $18.12 | [Chart](https://www.tradingview.com/chart/?symbol=INFY) | Infosys Limited American Depositary Shares | INFY |
-| 29 | 71 | $240.25 | [Chart](https://www.tradingview.com/chart/?symbol=RNR) | RenaissanceRe Holdings Ltd. | RNR |
-| 35 | 67 | $105.12 | [Chart](https://www.tradingview.com/chart/?symbol=PDD) | PDD Holdings Inc. American Depositary Shares | PDD |
-| 39 | 67 | $32.55 | [Chart](https://www.tradingview.com/chart/?symbol=CDRE) | Cadre Holdings, Inc. | CDRE |
-| 36 | 66 | $67.82 | [Chart](https://www.tradingview.com/chart/?symbol=QSR) | Restaurant Brands International Inc. | QSR |
+| 27 | 77 | $19.14 | [Chart](https://www.tradingview.com/chart/?symbol=MSDL) | Morgan Stanley Direct Lending Fund | MSDL |
+| 29 | 77 | $31.02 | [Chart](https://www.tradingview.com/chart/?symbol=AXTA) | Axalta Coating Systems Ltd. | AXTA |
+| 29 | 77 | $101.20 | [Chart](https://www.tradingview.com/chart/?symbol=FMX) | FOMENTO ECONOMICO MEXICANO, S.A.B. DE C.V. | FMX |
+| 30 | 77 | $56.44 | [Chart](https://www.tradingview.com/chart/?symbol=USRT) | iShares Core U.S. REIT ETF | USRT |
+| 26 | 76 | $16.32 | [Chart](https://www.tradingview.com/chart/?symbol=PRO) | Pros Holdings, Inc. | PRO |
+| 30 | 76 | $35.87 | [Chart](https://www.tradingview.com/chart/?symbol=AMH) | AMERICAN HOMES 4 RENT | AMH |
+| 26 | 75 | $114.16 | [Chart](https://www.tradingview.com/chart/?symbol=CPT) | Camden Property Trust | CPT |
+| 28 | 75 | $57.23 | [Chart](https://www.tradingview.com/chart/?symbol=ESNT) | Essent Group LTD | ESNT |
+| 29 | 75 | $67.41 | [Chart](https://www.tradingview.com/chart/?symbol=EQR) | Equity Residential | EQR |
+| 36 | 72 | $137.32 | [Chart](https://www.tradingview.com/chart/?symbol=SPSC) | SPS Commerce, Inc. | SPSC |
+| 34 | 68 | $105.14 | [Chart](https://www.tradingview.com/chart/?symbol=PDD) | PDD Holdings Inc. American Depositary Shares | PDD |
+| 36 | 66 | $67.94 | [Chart](https://www.tradingview.com/chart/?symbol=QSR) | Restaurant Brands International Inc. | QSR |
+| 39 | 64 | $57.00 | [Chart](https://www.tradingview.com/chart/?symbol=ALRM) | Alarm.com Holdings, Inc. | ALRM |
 
 ## **Methodology**
 
